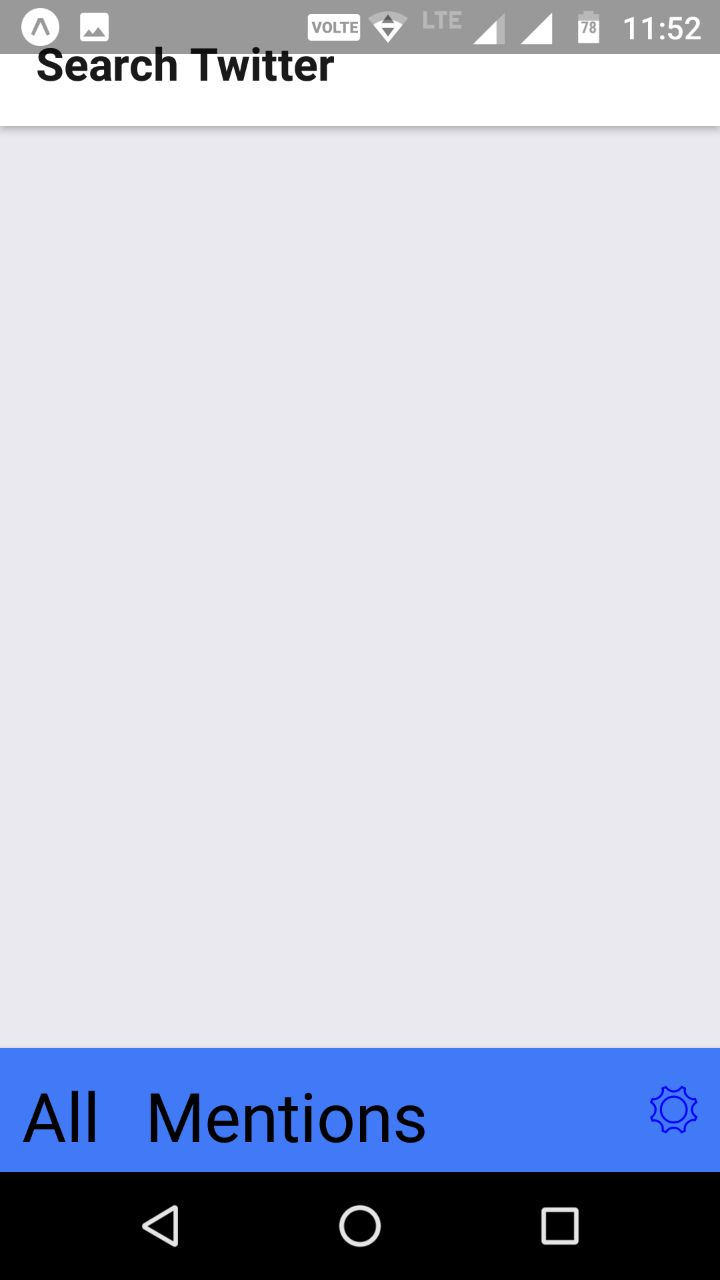
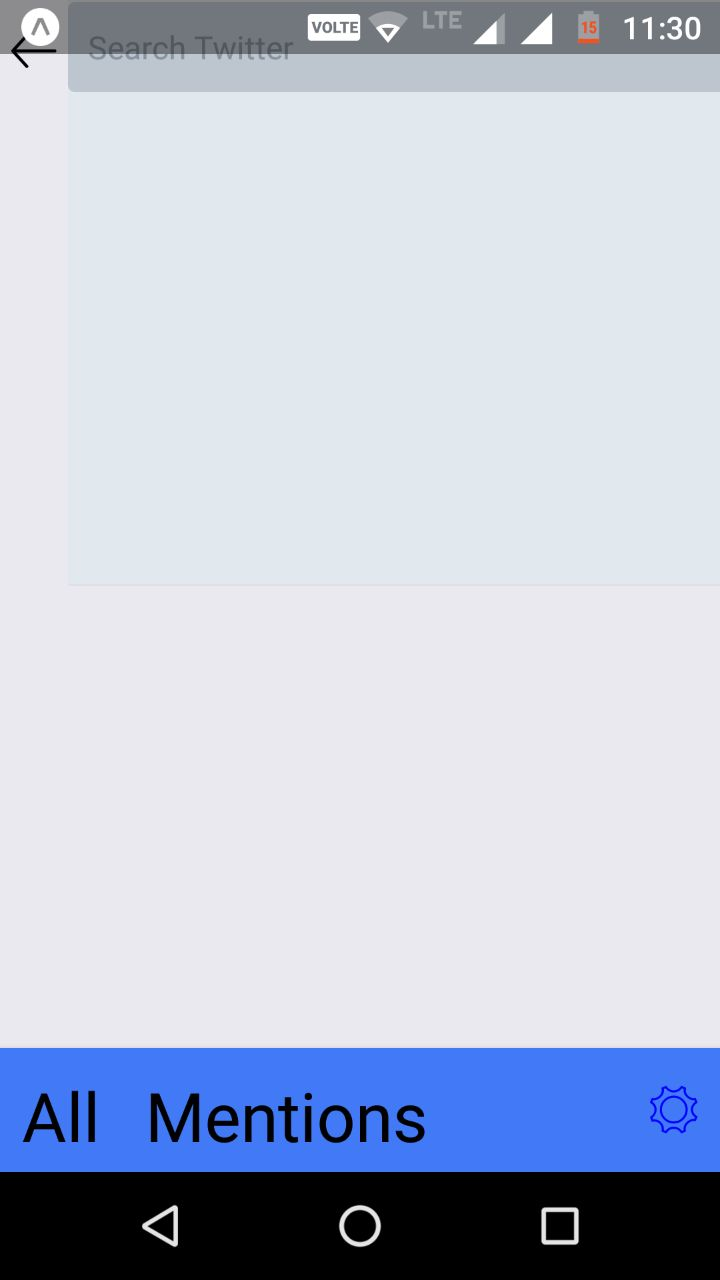
Changes to Search and Timeline

Changed region(s): [[0.0, 0.0, 1.0, 0.125]]

diff --git a/Home.js b/Home.js
@@ -1,15 +1,23 @@
 import React from 'react';
-import { AppRegistry, ScrollView, Image, Text} from 'react-native';
-import { Button,  Icon, Footer, FooterTab, Header, Left,Right,Content,Card,CardItem ,Container,Body,Thumbnail} from "native-base";
+import { AppRegistry, ScrollView, Image, StyleSheet,TouchableOpacity,View} from 'react-native';
+import { Button,  Icon, Footer, FooterTab, Header, Left,Right,Content,Card,CardItem ,Container,Body,Thumbnail,  Item, Input,  Text,} from "native-base";
 import { EvilIcons,MaterialIcons,Ionicons,MaterialCommunityIcons, Feather } from '@expo/vector-icons';
+import { Font } from 'expo';
 export default class Home extends React.Component {
+  componentDidMount() {
+    Font.loadAsync({
+      //'open-sans-bold': require('./assets/fonts/OpenSans-Bold.ttf'),
+      'Roboto_medium': require('./assets/fonts/Roboto-Medium.ttf'),
+    });
+  }
   static navigationOptions = {
-    title: 'Home',
+  //  title: 'Home',
     tabBarLabel: 'Home',
     tabBarIcon: ({ tintColor }) => (
-        <Icon name="home" style={[{ tintColor: tintColor }]}  />
+        <Icon name="home" /*style={[{ tintColor: tintColor }]}*/  />
 
-    )
+    ),
+    header:<View style={{flexDirection:'row'}}><Thumbnail small source={require('./face4.png')} style={{left:10}} /><Text style={{left:15,padding:5, fontSize:20}} >Home</Text></View>
   }
   render() {
       const { navigate } = this.props.navigation
@@ -145,8 +153,39 @@ export default class Home extends React.Component {
         </Card>
         </ScrollView>
       </Content>
+      <Footer>
+
+
+
+            <Text style={styles.red} >All</Text>
+
+
+
+            <Text style={styles.red}>Mentions</Text>
+
+
+          <Right >
+            <Icon style={styles.bigblue} name="ios-settings-outline" />
+
+          </Right>
+
+      </Footer>
+
     </Container>
 
     );
   }
 }
+const styles = StyleSheet.create({
+  bigblue: {
+    padding:10,
+    color: 'blue',
+
+
+  },
+  red: {
+    padding: 10,
+    fontSize: 30,
+
+  },
+});

diff --git a/Search.js b/Search.js
@@ -1,13 +1,31 @@
 import React from 'react';
-import { AppRegistry, ScrollView, Image, StyleSheet} from 'react-native';
-import { Container, Header, Item, Input, Icon, Button, Text,Right ,Footer,Content,FooterTab} from 'native-base';
-export default class Main extends React.Component {
+import { AppRegistry, ScrollView, Image, StyleSheet,TouchableOpacity,View} from 'react-native';
+import { Container, Header, Item, Input, Icon, Button, Text,Right ,Footer,Content,FooterTab,Left,Body} from 'native-base';
+import { EvilIcons,MaterialIcons,Ionicons,MaterialCommunityIcons, } from '@expo/vector-icons';
+import { Font } from 'expo';
+import { SearchBar } from 'react-native-elements'
+export default class Search extends React.Component {
+  componentDidMount() {
+    Font.loadAsync({
+      //'open-sans-bold': require('./assets/fonts/OpenSans-Bold.ttf'),
+      'Roboto_medium': require('./assets/fonts/Roboto-Medium.ttf'),
+    });
+  }
   static navigationOptions = {
-   title: 'Search Twitter',
+   //title: 'Search Twitter',
    tabBarIcon: ({ tintColor }) => (
-      <Icon name="search" style={[{ tintColor: tintColor }]}  />),
+      <Icon name="search" /*style={[{ tintColor: tintColor }]}*/  />),
        tabBarVisible: false ,
+       header:   <View style={{flex: 1, flexDirection: 'row'}}><Button transparent   style={{left: 5}}><Ionicons name="ios-arrow-round-back-outline" size={40}/></Button><SearchBar
+          lightTheme
+          noIcon
+          inputStyle={{margin: 0}}
+          containerStyle={{left:10 , width: 300}}
+          //onChangeText={}
+          placeholder='Search Twitter' /></View>,
+
  }
+
   render() {
     const { navigate } = this.props.navigation
       return (

diff --git a/Alerts.js b/Alerts.js
@@ -6,7 +6,7 @@ export default class Alerts extends React.Component {
   static navigationOptions = {
 
    tabBarIcon: ({ tintColor }) => (
-       <EvilIcons name="bell" size={32} color="white" style={[ { tintColor: tintColor }]} />
+       <EvilIcons name="bell" size={32} color="white" /*style={[ { tintColor: tintColor }]}*/ />
 
     ),
   }

diff --git a/Mail.js b/Mail.js
@@ -5,7 +5,7 @@ export default class Mail extends React.Component {
   static navigationOptions = {
 
     tabBarIcon: ({ tintColor }) => (
-        <Icon name="mail" style={[ { tintColor: tintColor }]}  />
+        <Icon name="mail" /*style={[ { tintColor: tintColor }]}*/  />
 
     )
   }
